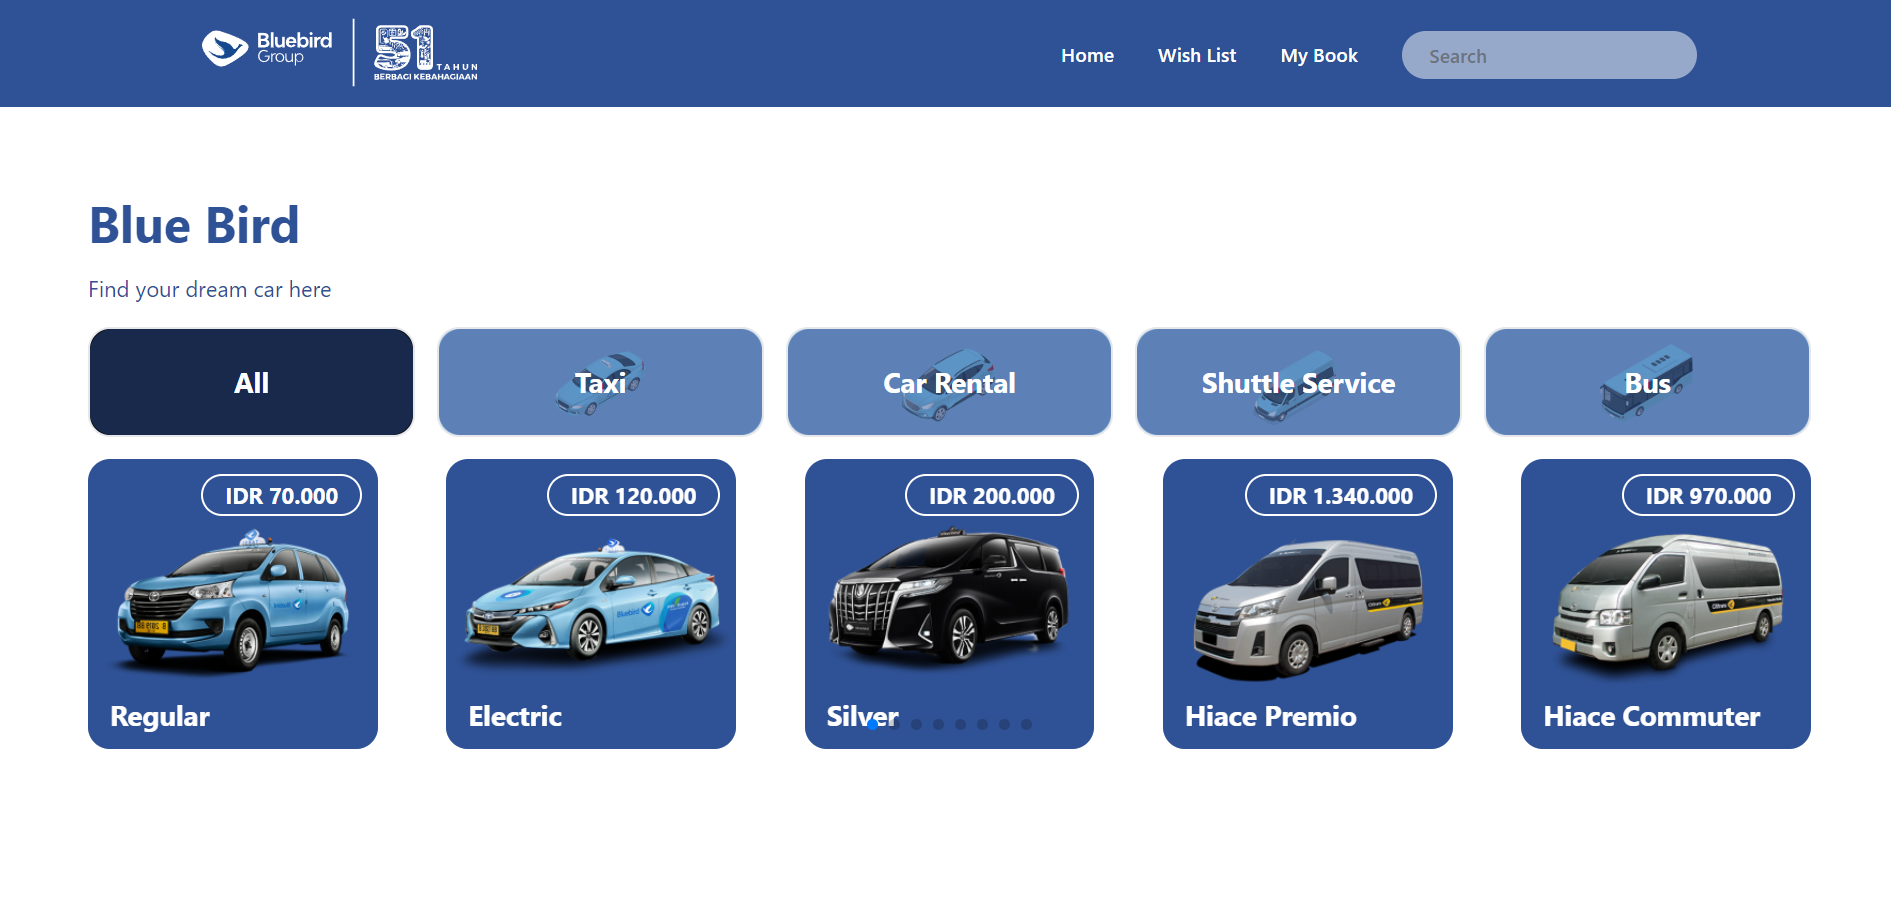
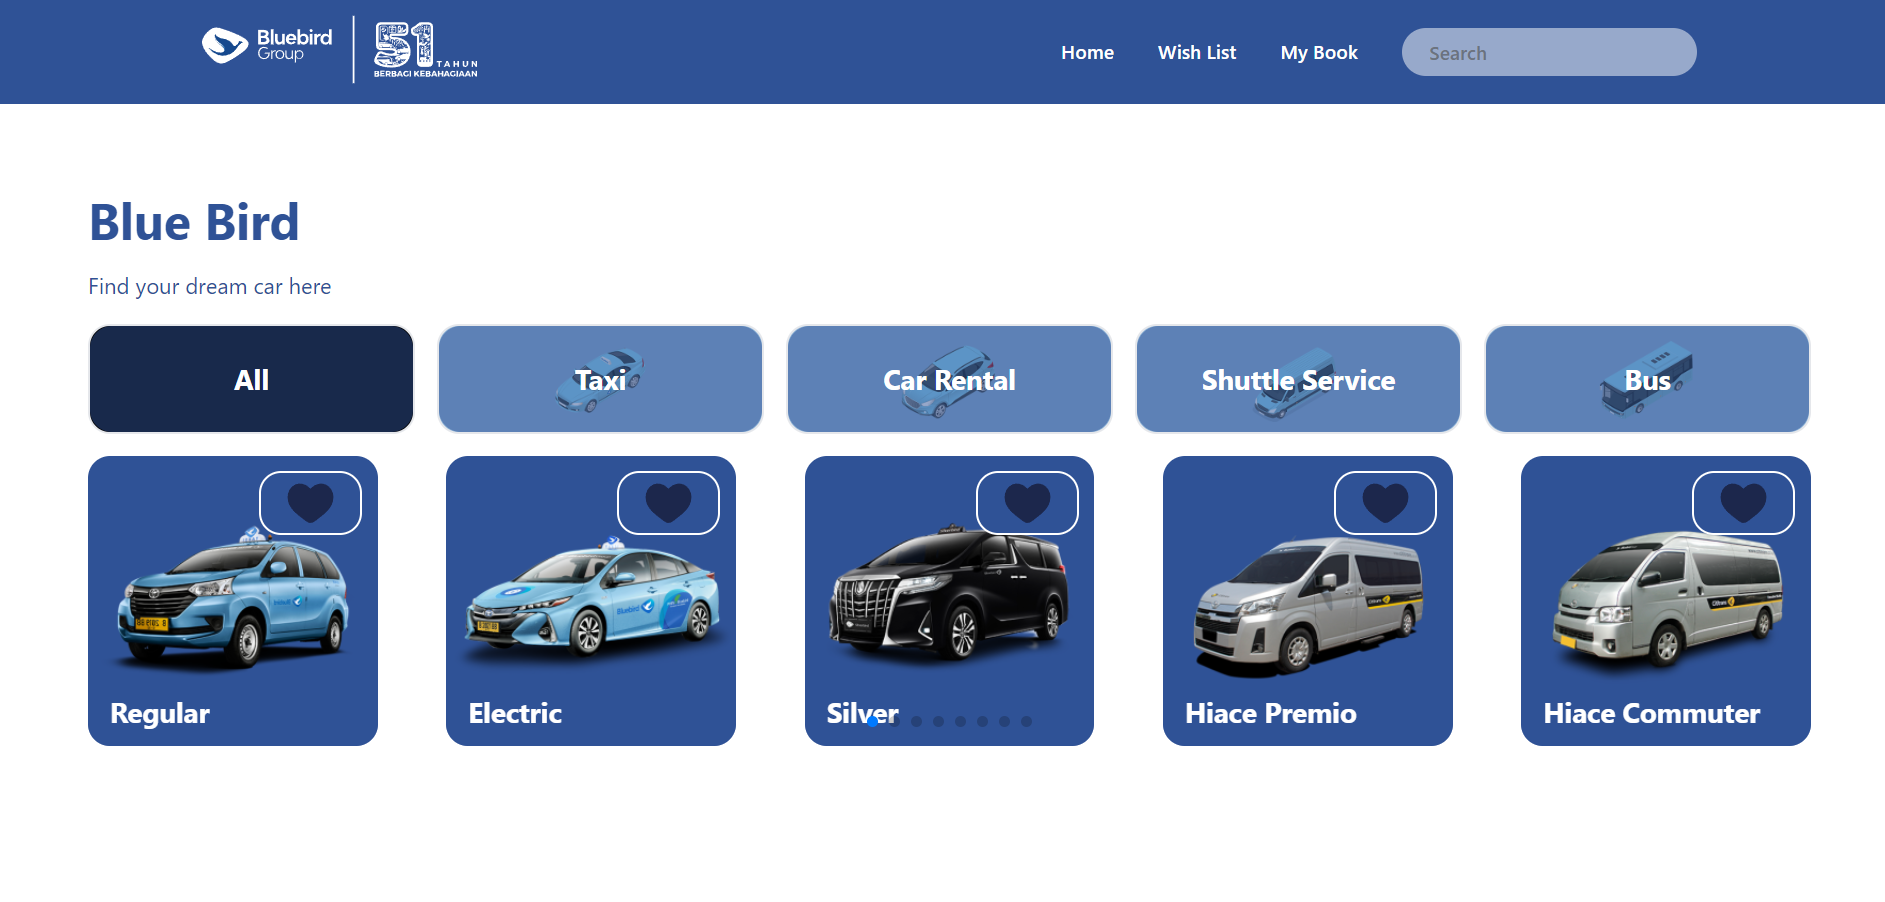
update like logic

diff --git a/src/pages/index.tsx b/src/pages/index.tsx
@@ -9,16 +9,24 @@ import { VehicleCategoryProps, VehicleProps } from '@/types/vehicles';
 import { useBlueBird } from '@/hooks/useBlueBird';
 import { LinkFormater } from '@/utils/linkFormat';
 import { Header } from '@/components/header';
+import { HeartIcon } from '@/components/icon';
 
 const placeholder = "https://via.placeholder.com/150"
 
 export default function Home() {
   const swiperRef = useRef();
-  const { queryVehicles, queryCategory } = useBlueBird();
+  const { queryVehicles, queryCategory, likeVehicleMutation, isLiked } = useBlueBird();
   const [currentCategory, setCurrentCategory] = React.useState(0); // 0 = all, 1 = taxi, 2 = car rental, 3 = shuttle, 4 = bus
-  const [currentData, setCurrentData] = React.useState<any>(queryVehicles.data);
+  const [currentData, setCurrentData] = React.useState<any>();
 
+  const handleInitData = async () => {
+    setCurrentCategory(0);
+    await queryVehicles.refetch().then((res) => {
+      setCurrentData(res.data);
+    })
+  }
   useEffect(() => {
+    handleInitData();
     if (currentCategory === 0) {
       setCurrentData(queryVehicles.data)
     } else {
@@ -110,11 +118,19 @@ export default function Home() {
                     alt="image"
                     className='absolute top-0 left-0 object-contain w-full h-full z-[0]'
                   />
-                  <div
+                  <button
+                    onClick={(e: any) => {
+                      e.preventDefault();
+                      e.stopPropagation();
+                      likeVehicleMutation.mutate(vehicle.vehicle);
+                    }}
                     className='bg-primary text-white font-bold py-[0.1rem] px-[1rem] rounded-[1rem] w-fit right-[0.7rem] top-[0.7rem] absolute text-center  border-2 border-white'
                   >
-                    {vehicle.price}
-                  </div>
+                    <HeartIcon
+                      isLiked={vehicle.isLiked}
+                    />
+                    {/* {vehicle.price} */}
+                  </button>
                   <div
                     id='content'
                     className='z-[1] absolute bottom-0 bg-primary bg-opacity-50 w-full h-[3rem] flex items-center 

diff --git a/src/hooks/useBlueBird.tsx b/src/hooks/useBlueBird.tsx
@@ -52,8 +52,9 @@ const useBlueBird = (slug = "") => {
         queryKey: ["vehicles", "liked"],
         queryFn: () => {
             const data = queryVehicles.data as VehicleProps[];
-            // return data.filter((item) => item.isBooked === true);
-            return data.filter((item) => item.isLiked === true);
+            // remove duplicate
+            const newData = data.filter((item, index, self) => data.indexOf(item) === index);
+            return newData.filter((item) => item.isLiked === true);
         },
         staleTime: Infinity,
         initialData: [],
@@ -63,9 +64,10 @@ const useBlueBird = (slug = "") => {
         queryKey: ["vehicles", "liked", slug],
         queryFn: () => {
             const data = queryLikedVehicles.data as VehicleProps[];
-            return data.find((item) => item.vehicle === slug)?.isLiked ?? false;
+            // remove duplicate
+            const newData = data.filter((item, index, self) => data.indexOf(item) === index);
+            return newData.find((item) => item.vehicle === slug)?.isLiked ?? false;
         },
-        // staleTime: Infinity,
         initialData: false,
     });
 
@@ -74,6 +76,8 @@ const useBlueBird = (slug = "") => {
             let data = queryVehicles.data as VehicleProps[];
             const prevData = queryLikedVehicles.data as VehicleProps[];
             let Liked = 0;
+
+
             data.map((item) => {
                 if (item.vehicle === slug) {
                     if (item.isLiked === true) {
@@ -87,13 +91,14 @@ const useBlueBird = (slug = "") => {
                 }
                 return item;
             })
+
             if (Liked === 1) {
                 data.push(...prevData);
             } else if (Liked === 2) {
-                // remove item from array
                 const newData = prevData.filter((item) => item.vehicle !== slug);
                 data = newData;
             }
+
             queryClient.setQueryData(["vehicles", "liked"], data);
         },
 

diff --git a/src/pages/wishlist/index.tsx b/src/pages/wishlist/index.tsx
@@ -3,6 +3,7 @@ import EmptyData from '@/components/emptyData'
 import { Header } from '@/components/header'
 import VehicleCard from '@/components/vehicleCard'
 import { useBlueBird } from '@/hooks/useBlueBird'
+import { VehicleProps } from '@/types/vehicles'
 import { useAmp } from 'next/amp'
 import Image from 'next/image'
 import Link from 'next/link'
@@ -20,6 +21,13 @@ declare global {
 export default function Wishlist() {
     const { queryLikedVehicles } = useBlueBird()
     // const isAmp = useAmp()
+    const [data, setData] = React.useState<VehicleProps[]>([])
+    useEffect(() => {
+        const newData = queryLikedVehicles.data as VehicleProps[]
+        // remove duplicate, if vehicle have same .vehicle, remove it
+        const filteredData = newData.filter((item, index, self) => newData.indexOf(item) === index)
+        setData(filteredData)
+    }, [queryLikedVehicles.data])   
     return (
         <div
             role='wishlist page'
@@ -33,7 +41,7 @@ export default function Wishlist() {
                 className='flex flex-col gap-4 w-full h-full'
             >
                 {
-                    queryLikedVehicles.data?.map((vehicle: any, index: number) => {
+                    data?.map((vehicle: any, index: number) => {
                         return (
 
                             <VehicleCard
@@ -47,7 +55,7 @@ export default function Wishlist() {
                 }
 
                 {
-                    queryLikedVehicles.data.length === 0 &&
+                    data.length === 0 &&
                     <EmptyData />
                 }
             </div>

diff --git a/src/components/footer.tsx b/src/components/footer.tsx
@@ -74,13 +74,6 @@ export default function Footer() {
                                         <Link href="/" className="text-white text-xs opacity-50 underline">FAQ</Link>
                                     </div>
                                 </div>
-                                <div className='space-y-2'>
-                                    <p className="text-white text-sm">Format admisi</p>
-                                    <div className='space-y-1'>
-                                        <p className="text-white text-xs opacity-50">Email : admisi@umn.ac.id</p>
-                                        <p className="text-white text-xs opacity-50">Format : Nama, ALamat, No. Telepon, Jurusan yang diminati, dan keterangan</p>
-                                    </div>
-                                </div>
                             </div>
                             <div className='md:w-1/2 md:space-y-24 md:mb-0 flex flex-row md:flex-col justify-between md:justify-normal'>
                                 <div className='space-y-2'>

diff --git a/src/pages/_app.tsx b/src/pages/_app.tsx
@@ -18,7 +18,7 @@ export default function App({ Component, pageProps }: AppProps) {
         <Layout>
           <Component {...pageProps} />
         </Layout>
-        {/* <ReactQueryDevtools initialIsOpen={false} /> */}
+        <ReactQueryDevtools initialIsOpen={false} />
       </QueryClientProvider>
     </>)
 }

diff --git a/README.md b/README.md
@@ -1,30 +1,78 @@
 # Blue Bird Frontend Challenge - Aurelius Ivan Wijaya
 
 <!-- Project Description -->
-# Project Description
+## Project Description
 Aplikasi ini merupakan aplikasi yang dibuat untuk memenuhi tugas dari Blue Bird Frontend Challenge. Aplikasi ini dibuat menggunakan ReactJS (dengan Framework Next.JS) dan menggunakan API dari Bluebird.
+
+## Built With
+- [ReactJS](https://reactjs.org/)
+- [NextJS](https://nextjs.org/)
+- [TailwindCSS](https://tailwindcss.com/)
+- [Axios](https://axios-http.com/)
+- [React-Query](https://react-query.tanstack.com/) (For State Management)
+- [SwiperJS](https://swiperjs.com/) (For Carousel)
+- [SweetAlert2](https://sweetalert2.github.io/) (For Alert)
+- [Jest](https://jestjs.io/) (For Unit Testing)
+- [React Testing Library](https://testing-library.com/docs/react-testing-library/intro/) (For Unit Testing)
+- [ESLint](https://eslint.org/) (For Linting)
 
 <!-- Table of Contents -->
 # Table of Contents
 - [Project Description](#project-description)
+    - [Built With](#built-with)
 - [Table of Contents](#table-of-contents)
 - [Getting Started](#getting-started)
     - [Prerequisites](#prerequisites)
     - [Installation](#installation)
 - [Usage](#usage)
     - [Home Page](#1-home-page)
-    - [Wish List Page](#2-wish-list-page)
-    - [My Book Page](#3-my-book-page)
+    - [Search Page](#2-search-page)
+    - [Detail Page](#3-detail-page)
+    - [My Book Page](#4-my-book-page)
+    - [Wish List Page](#5-wishlist-page)
+- [Test Result](#test-result)
+- [Contact](#contact)
 
 
+<!--  Project Description -->
+# Getting Started
+Berikut merupakan langkah-langkah untuk menjalankan aplikasi ini secara lokal.
+
+## Prerequisites
+- NodeJS
+- NPM / Yarn (Preferred)
+
+## Installation
+
+1. Clone the repo
+```sh
+git clone
+```
+2. Install NPM packages
+```sh
+npm install
+# or
+yarn install
+```
+3. Run the app
+```sh
+npm run dev
+# or 
+yarn dev
+```
+
+<!-- Usage -->
+# Usage
+Berikut merupakan tampilan dari aplikasi ini.
 <!-- Home Page -->
 ## 1. Home Page
 Berikut merupakan tampilan dari halaman utama (Home Page) dari aplikasi ini.
-<br>
-<br>
+
 <img src="./docs/assets/HomePageSS.png" alt="MarineGEO circle logo" style="height: auto; width:100%;"/>
 <!-- <center>gambar 1.1 Tampilan Home page<center> -->
+
 Pada halaman ini penggunakan akan disuguhkan oleh daftar mobil yang tersedia. 
+
 <img src="./docs/assets/NavbarSS.png" alt="MarineGEO circle logo" style="height: auto; width:100%;"/>
 Pada tampilan home, terdapat navbar yang berisi logo dan tombol untuk mengarahkan pengguna ke halaman lainnya.
 <br>
@@ -35,3 +83,57 @@ Pada tampilan home, terdapat navbar yang berisi logo dan tombol untuk mengarahka
     <li>My Book: Mengarahkan pengguna ke halaman My Book
     </li>
 </ul>
+
+## 2. Search Page
+
+<img src="./docs/assets/SearchPageSS.png" alt="MarineGEO circle logo" style="height: auto; width:100%;"/>
+Pengguna dapat mengakses halamaan ini, dengan mengetikan kata kuci (keywords) pada search bar yang terdapat pada navbar.
+<br>
+Ketika Kata kunci sesuai dengan database, maka website akan menampilkan daftar yang sesuai. Pengguna dapat masuk ke halaman detail dengan memilih hasil pencarian. 
+
+## 3. Detail Page 
+Berikut merupakan tampilan dari halaman Detail Page dari aplikasi ini. 
+<br>
+<img src="./docs/assets/DetailPageSS.png" alt="MarineGEO circle logo" style="height: auto; width:100%;"/>
+<br>
+<br>
+Ketika pengguna menekan tombol "Book Now", maka akan muncul pop up "Successfully Booked!" seperti pada gambar berikut ini. Data dari mobil 
+yang di book juga kaan disimpan kedalam Book List.
+<br>
+<br>
+<img src="./docs/assets/SuccessBookSS.png" alt="Successfully Book" style="height: auto; width:100%;"/>
+Ketika pengguna menekan tombol icon berbentuk Hati, maka akan muncul pop up "Successfully Added to Wish List!" seperti pada gambar berikut ini. Data dari mobil yang dipilih akan disimpan ke daftar Wish List.
+<br>
+<br>
+<img src="./docs/assets/LikedSS.png" alt="Successfully Added to Wish List" style="height: auto; width:100%;"/>
+
+Ketika pengguna menekan tombol "Share", maka akan muncul pop up "Copied to Clipboard" seperti pada gambar berikut ini. Link dari detail page juga akan tercopy ke clipboard.
+<br>
+<br>
+<img src="./docs/assets/SharedSS.png" alt="Successfully Added to Wish List" style="height: auto; width:100%;"/>
+
+
+## 4. My Book Page
+
+Berikut merupakan tampilan dari halaman My Book dari aplikasi ini.
+
+<img src="./docs/assets/MyBooked1.png" alt="MarineGEO circle logo" style="height: auto; width:100%;"/>
+
+<img src="./docs/assets/MyBooked2.png" alt="MarineGEO circle logo" style="height: auto; width:100%;"/>
+
+Pada halaman My Book terdapat daftar mobil yang sebelumnya telah di book melalui detail. Pengguna juga dapat melihat total harga dari mobil yang telah di book.
+
+## 5. Wishlist Page 
+Berikut merupakan tampilan dari halaman Wish List dari aplikasi ini.
+
+<img src="./docs/assets/WishListPageSS.png" alt="MarineGEO circle logo" style="height: auto; width:100%;"/>
+
+Data yang ada pada halaman ini merupakan data yang telah di tambahkan oleh pengguna melalui detail page dengan mengetuk tombol hati.
+
+# Test Result
+Berikut merupakan hasil dari test yang telah dilakukan pada aplikasi ini.
+
+
+# Contact
+Berikut merupakan kontak saya: 
+aureliusivanwijaya@gmail.com
